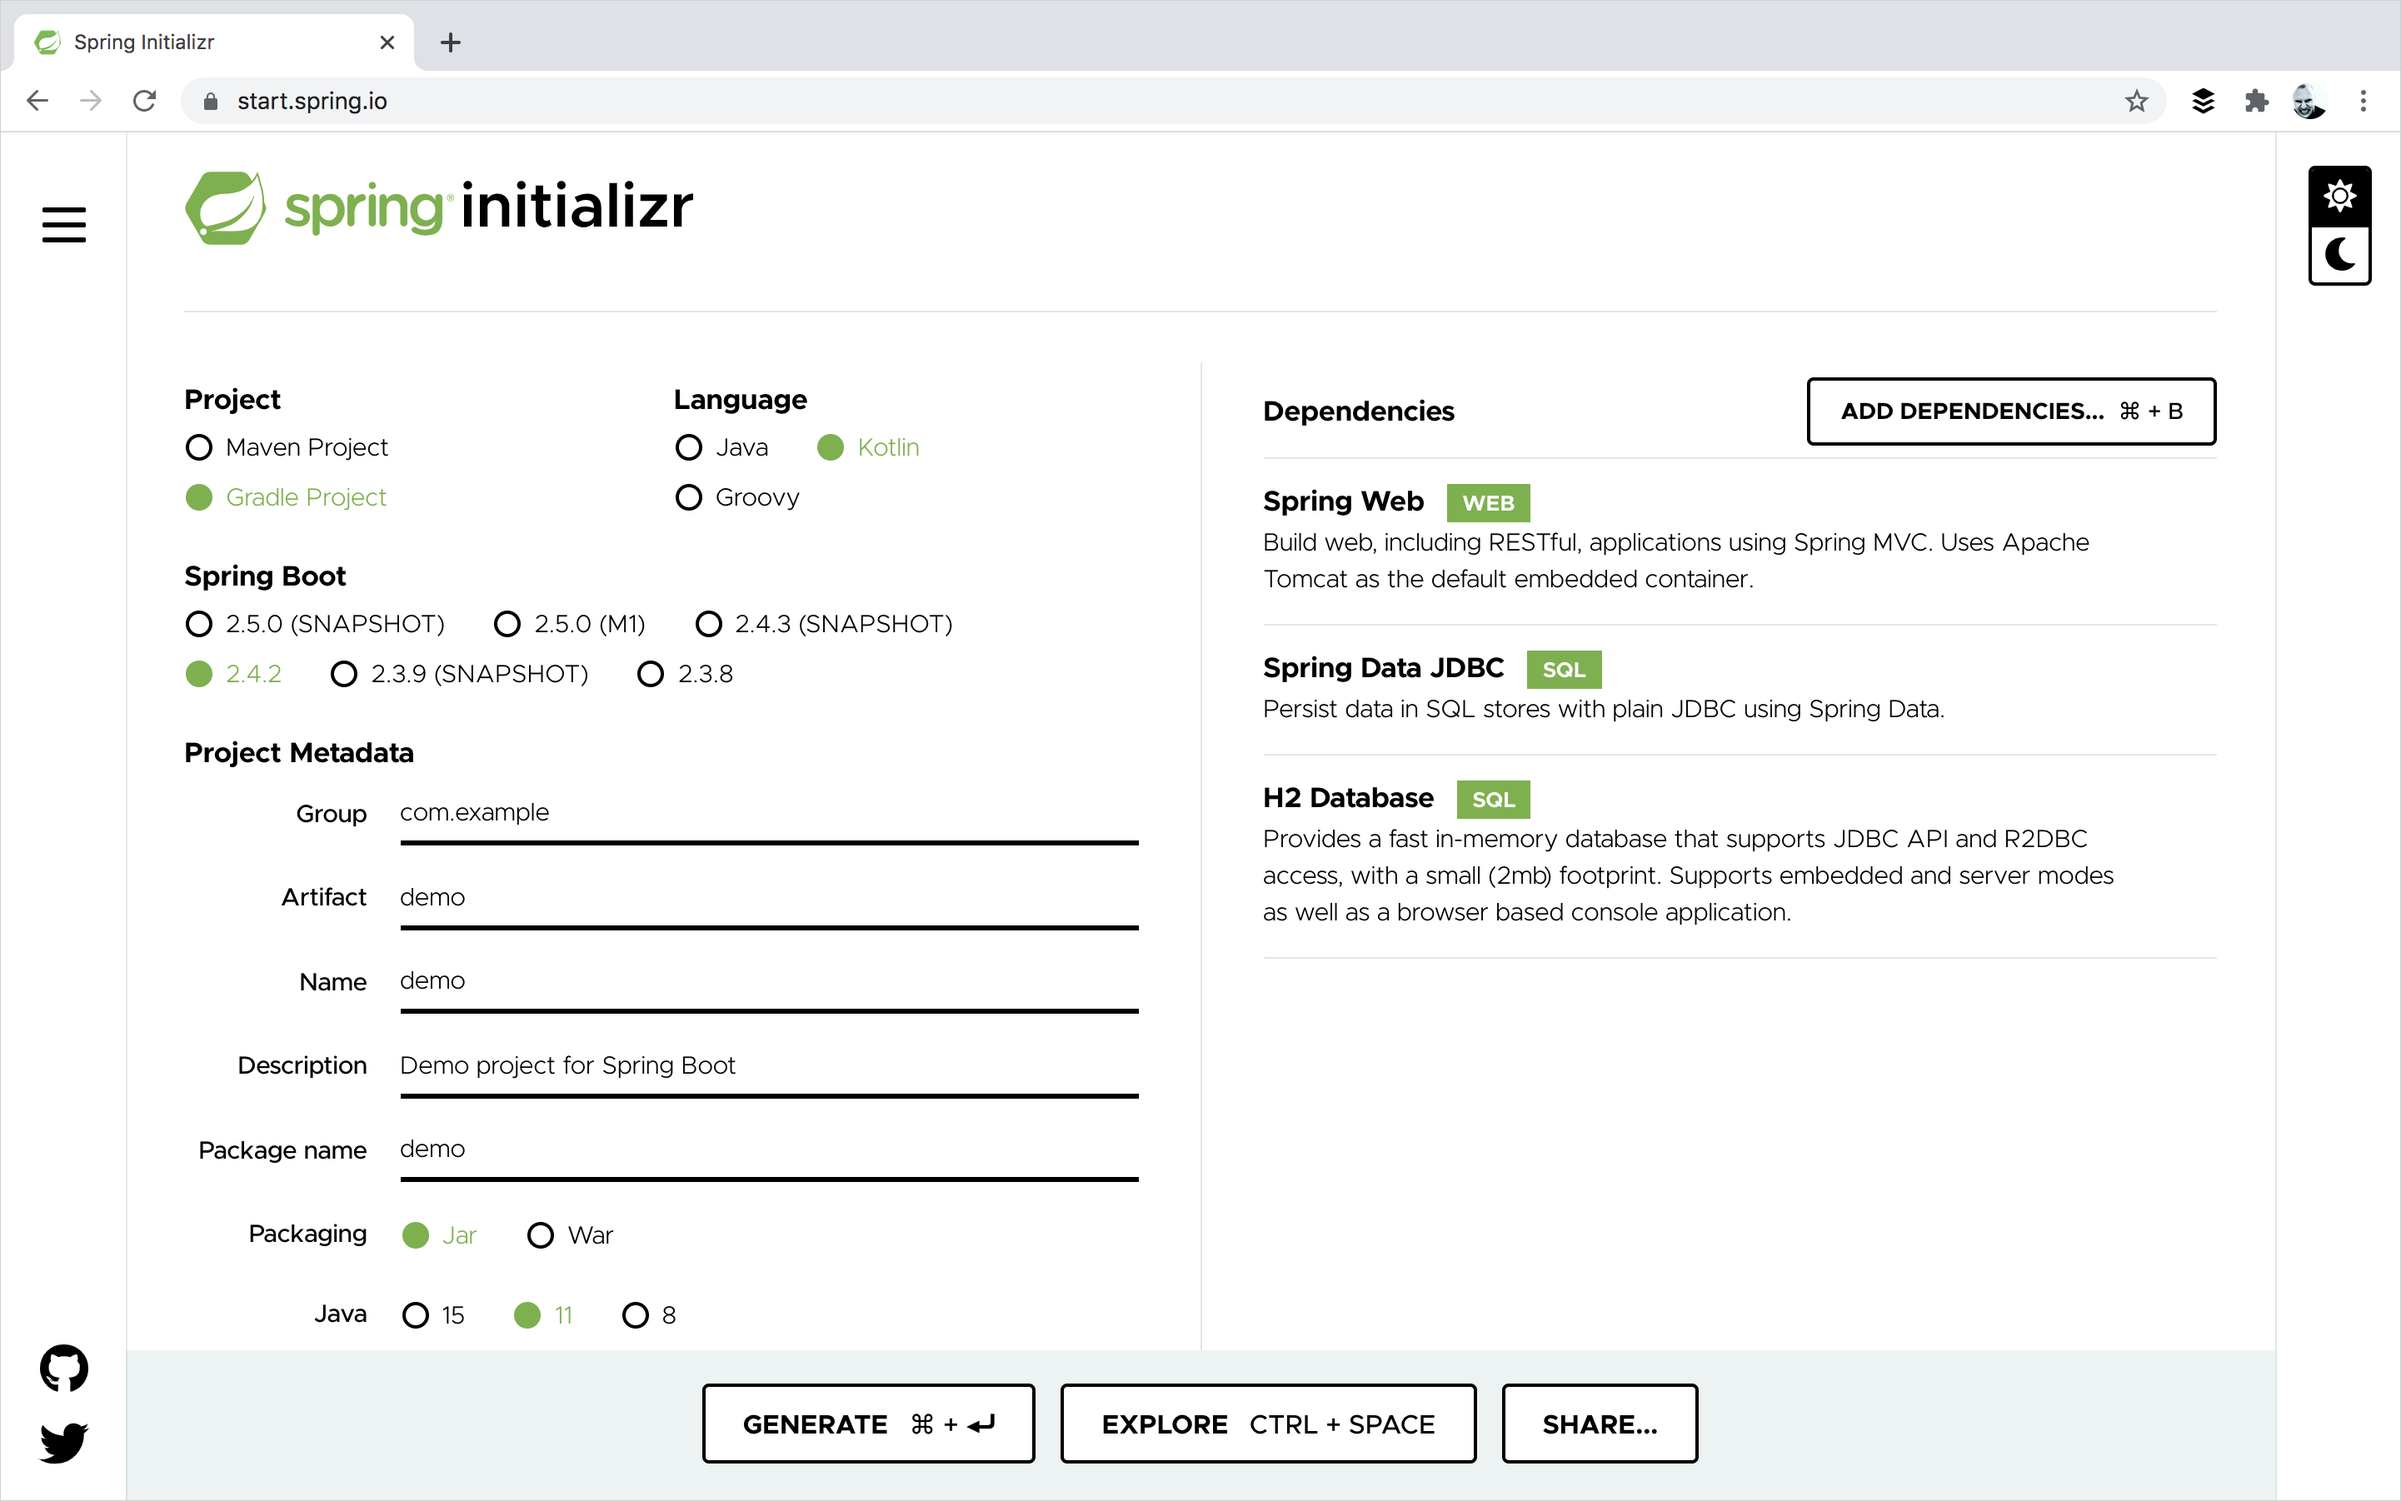
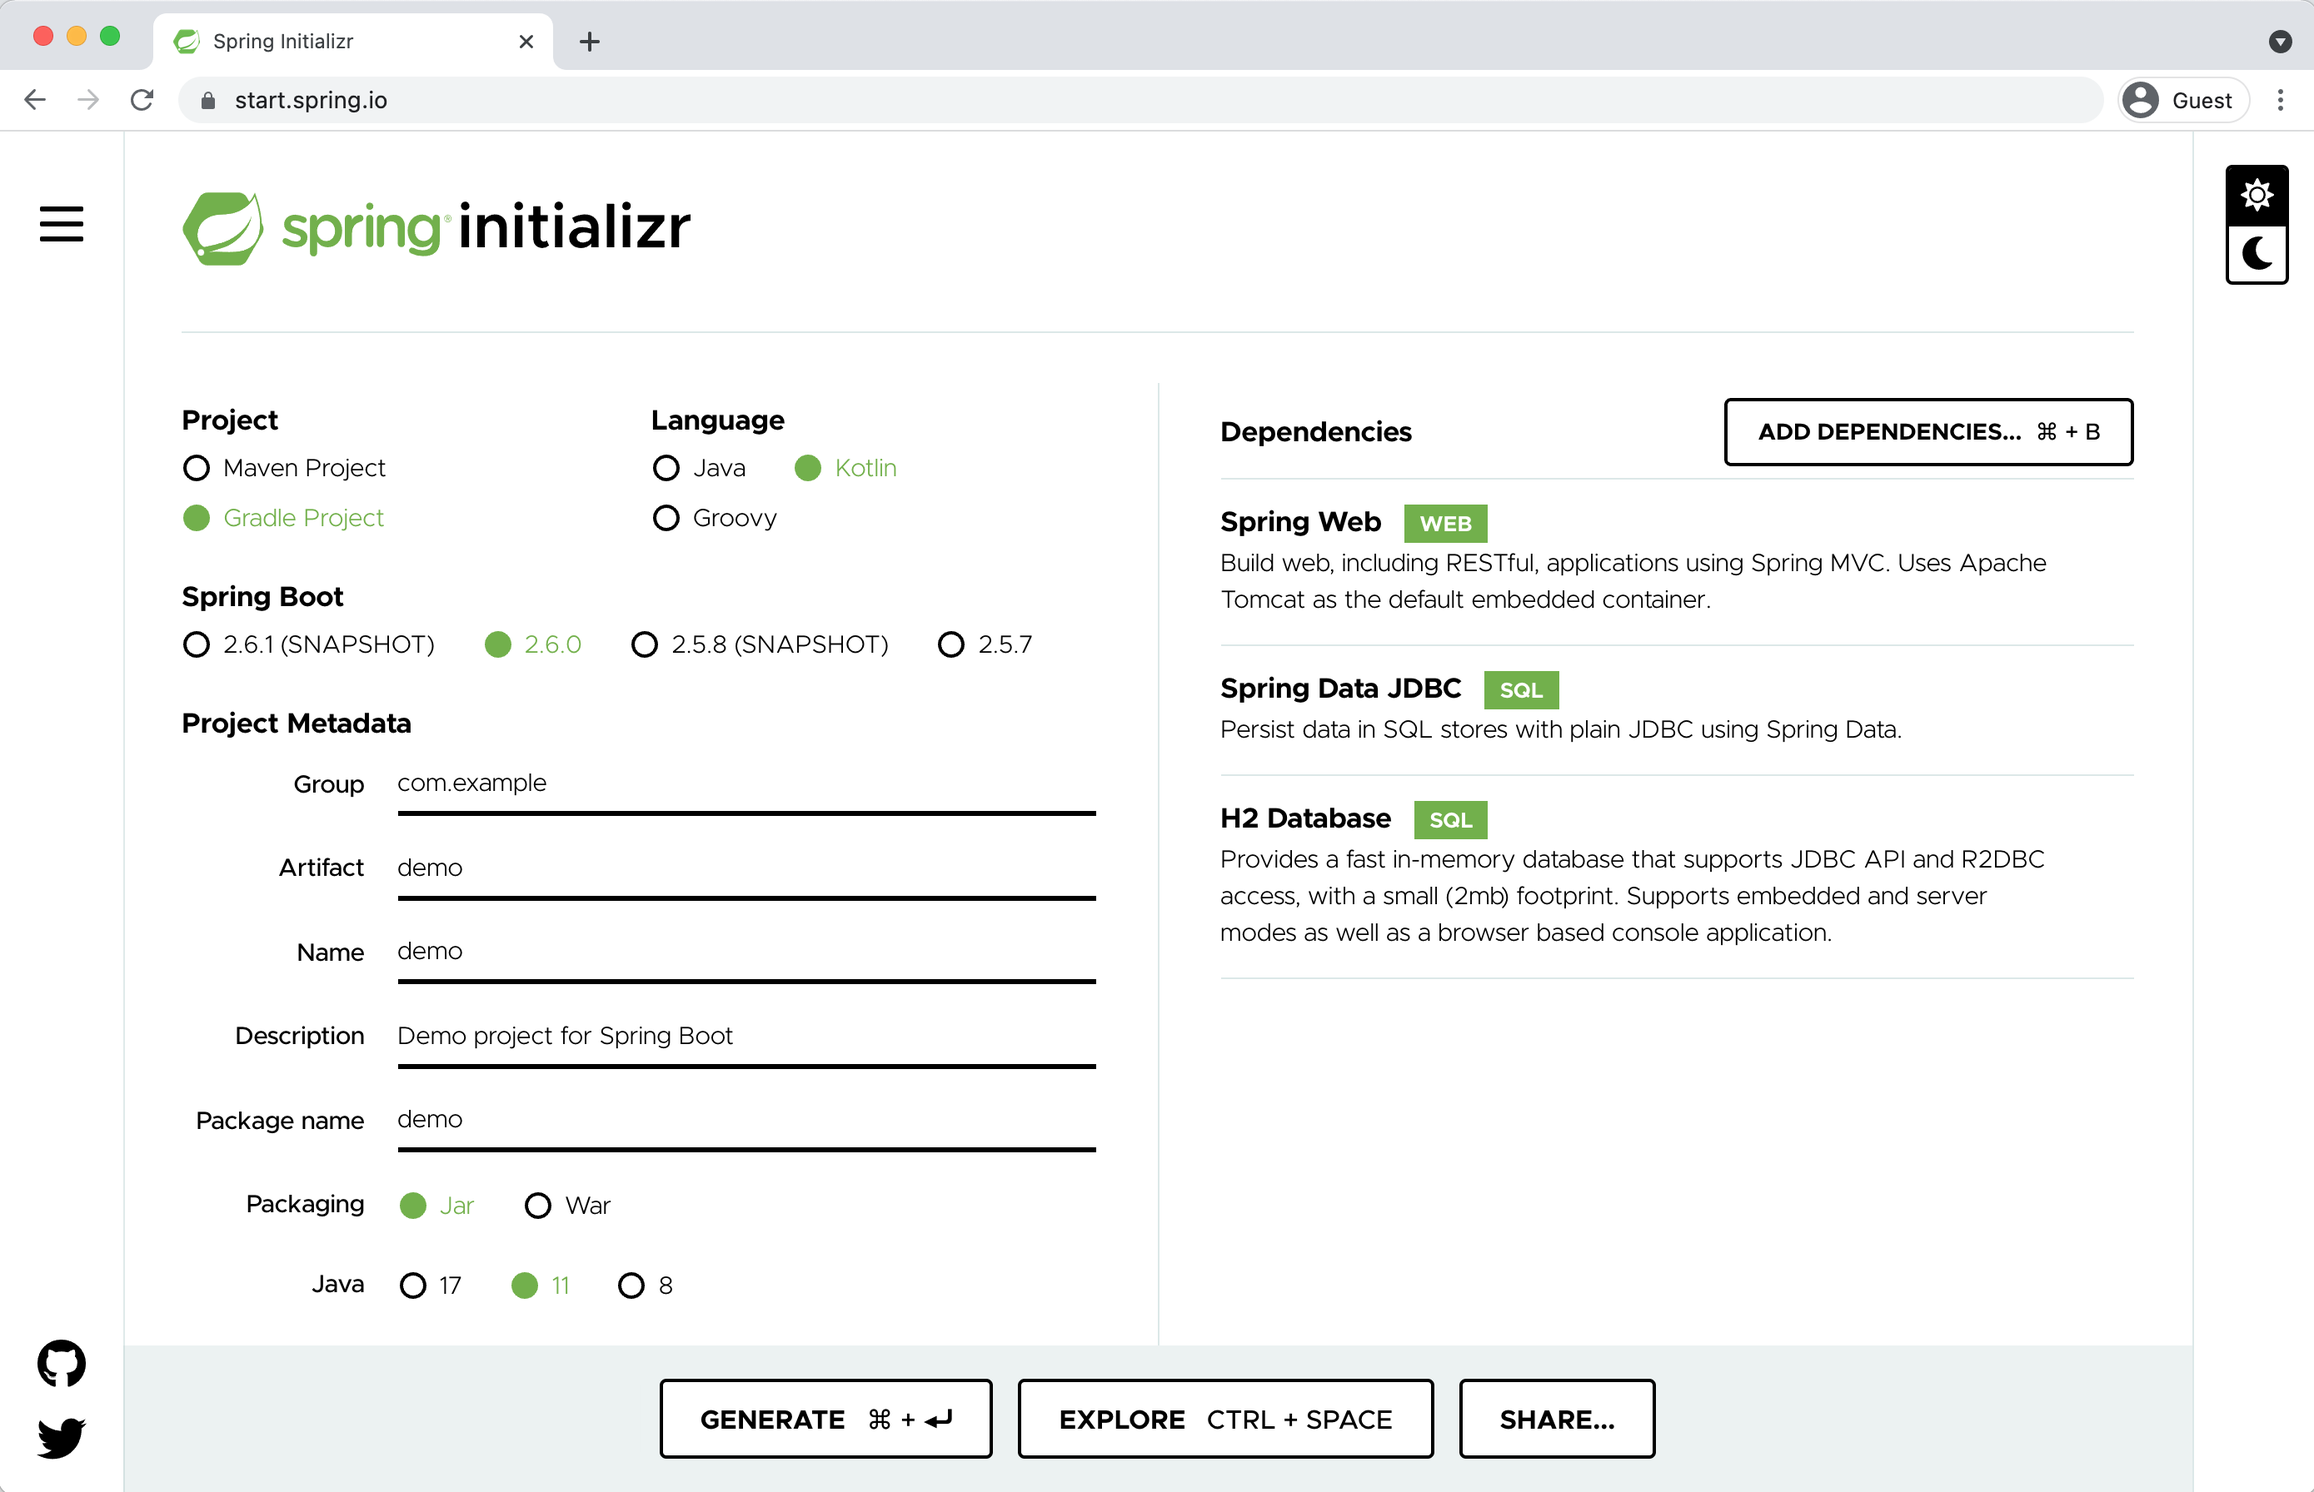
update: spring boot initializr

diff --git a/docs/topics/jvm/jvm-spring-boot-restful.md b/docs/topics/jvm/jvm-spring-boot-restful.md
@@ -26,7 +26,7 @@ Use Spring Initializr to create a new project:
 >
 {type="note"}
 
-1. Open [Spring Initializr](https://start.spring.io/#!type=gradle-project&language=kotlin&platformVersion=2.4.5.RELEASE&packaging=jar&jvmVersion=11&groupId=com.example&artifactId=demo&name=demo&description=Demo%20project%20for%20Spring%20Boot&packageName=demo&dependencies=web,data-jdbc,h2). This link opens the page with the project settings for this tutorial already filled in.
+1. Open [Spring Initializr](https://start.spring.io/#!type=gradle-project&language=kotlin&platformVersion=2.6.0&packaging=jar&jvmVersion=11&groupId=com.example&artifactId=demo&name=demo&description=Demo%20project%20for%20Spring%20Boot&packageName=demo&dependencies=web,data-jdbc,h2). This link opens the page with the project settings for this tutorial already filled in.
 This project uses **Gradle**, **Kotlin**, **Spring Web**, **Spring Data JDBC**, and **H2 Database**:
 
    ![Create a new project with Spring Initializr](spring-boot-create-project-with-initializr.png){width=800}
